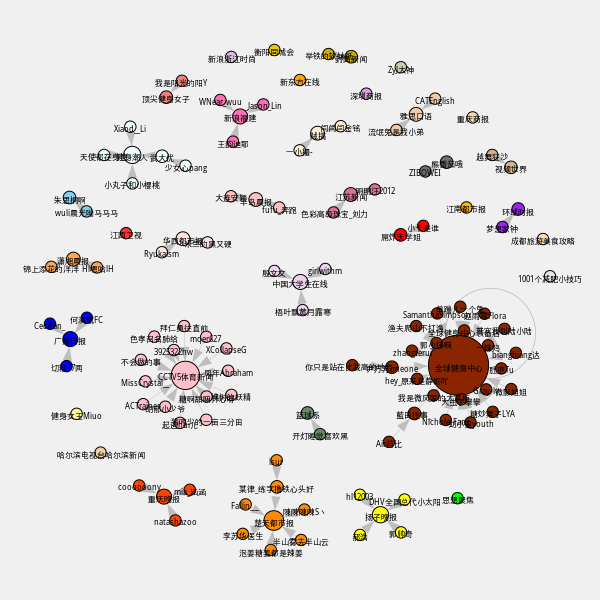
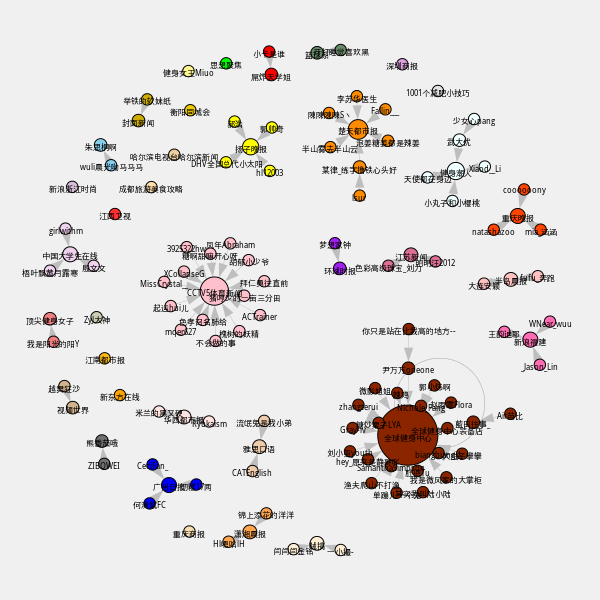
SNA

Changed region(s): [[0.03, 0.06, 0.96, 0.93]]

diff --git a/main.py b/main.py
@@ -6,7 +6,7 @@ import xlwt
 
 def write_data(file_name, node_list, link_list):
     """
-    将节点的信息重新保存一份带node排名
+    将节点的信息重新保存一份带value的
     :param link_list:
     :param file_name: 保存路径
     :param node_list:
@@ -17,11 +17,14 @@ def write_data(file_name, node_list, link_list):
     table_1 = file_0.add_sheet('link')
     table_0.write(0, 0, 'node')
     table_0.write(0, 1, 'label')
-    table_0.write(0, 2, 'rank')
+    table_0.write(0, 2, 'value')
     for i in range(node_list.__len__()):
         table_0.write(i + 1, 0, i)
         table_0.write(i + 1, 1, node_list[i].label)
-        table_0.write(i + 1, 2, node_list[i].rank)
+        if node_list[i].is_topK:
+            table_0.write(i + 1, 2, 5)
+        else:
+            table_0.write(i + 1, 2, 1)
     table_1.write(0, 0, 'from')
     table_1.write(0, 1, 'to')
     table_1.write(0, 2, 'weight')

diff --git a/MakeGraph.py b/MakeGraph.py
@@ -120,7 +120,7 @@ class MakeGraph:
         self.node_list[node_list[0].node_index].is_topK = True
         value = node_list[0].value
         for node in node_list[1:]:
-            if node.value > value * 0.5 and topK_list.__len__() < self.user_num * 0.1:
+            if node.value > value * 0.3 and topK_list.__len__() < self.user_num * 0.1:
                 self.node_list[node.node_index].is_topK = True
                 topK_list.append(node)
                 value = node.value
